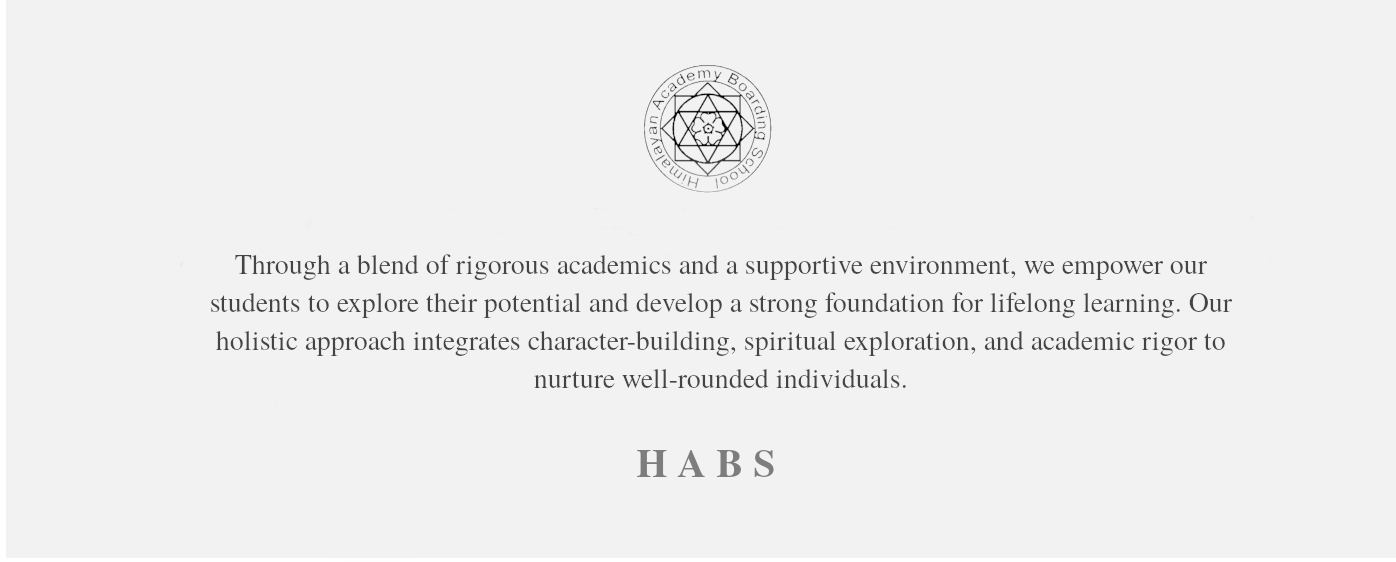
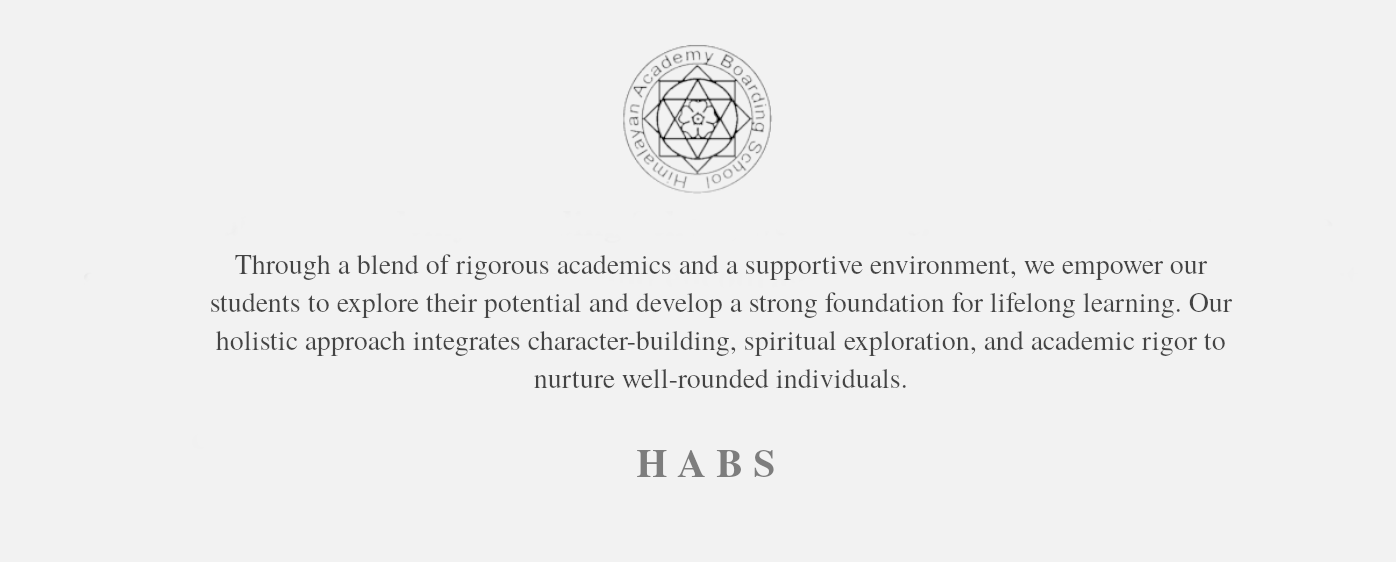
Commit#5: Update overflow fix

Changed region(s): [[0.4312, 0.0605, 0.5544, 0.363]]

diff --git a/src/views/HomePage.vue b/src/views/HomePage.vue
@@ -173,7 +173,20 @@ export default {
 
 
 .ft-desc{
-    width: 100% auto;
-    height: auto;
+    width: 80%;
+    margin: 0px;
+    position: relative;
+    width: 100%;
+    height: 560px;
+    overflow: hidden;
+
+}
+.ft-desc img{
+    width: 100%;
+    height: 100%;
+    display: block;
+    position: absolute;
+    top: 0;
+    left: 0;
 }
 </style>

diff --git a/src/components/ApplyBar.vue b/src/components/ApplyBar.vue
@@ -43,6 +43,7 @@ export default{
 .registration-container {
     width: 100%;
     margin: 0 auto;
+    overflow: hidden;
 }
 
 .registration-row {
